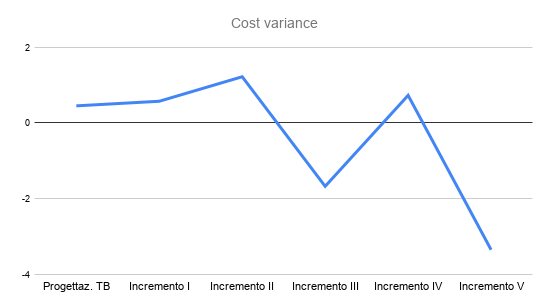
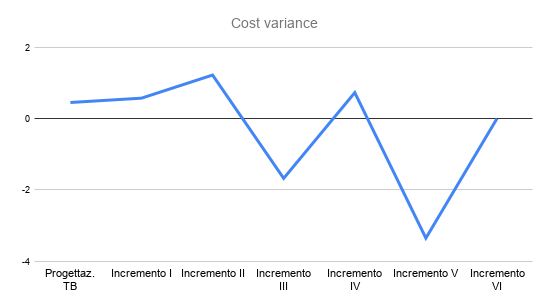
Update

diff --git a/esterni/piano_qualifica/res/sections/Sez5-Resoconto/Resoconto.tex b/esterni/piano_qualifica/res/sections/Sez5-Resoconto/Resoconto.tex
@@ -5,13 +5,19 @@
 	
 \subsection{Verifica processi}
 
-\subsubsection{Calcolo metriche gestione delle risorse}
+\subsubsection{Calcolo metriche gestione delle risorse - QP1}
 Per verificare che i costi stabiliti rientrino in quanto preventivato si trovano a seguire dei grafici contenenti i risultati ottenuti:
 
 	\paragraph{Budgeted cost of work scheduled}
 		\begin{figure}[H]
 			\centering
 			\includegraphics[width=0.8\linewidth]{./res/images/BCWS_1.png}
+			\caption{Grafico contenente il costo preventivato in euro per fase}
+			\label{fig:Grafico contenente il costo preventivato in euro per fase}
+		\end{figure}
+		\begin{figure}[H]
+			\centering
+			\includegraphics[width=0.8\linewidth]{./res/images/BCWS_2.png}
 			\caption{Grafico contenente il costo preventivato in euro per fase}
 			\label{fig:Grafico contenente il costo preventivato in euro per fase}
 		\end{figure}
@@ -23,11 +29,23 @@ Per verificare che i costi stabiliti rientrino in quanto preventivato si trovano
 			\caption{Grafico contenente il costo effettivo in euro per fase}
 			\label{fig:Grafico contenente il costo effettivo in euro per fase}
 		\end{figure}
+		\begin{figure}[H]
+			\centering
+			\includegraphics[width=0.8\linewidth]{./res/images/ACWP_2.png}
+			\caption{Grafico contenente il costo effettivo in euro per fase}
+			\label{fig:Grafico contenente il costo effettivo in euro per fase}
+		\end{figure}
 
 	\paragraph{Budgeted cost of work performed}
 		\begin{figure}[H]
 			\centering
 			\includegraphics[width=0.8\linewidth]{./res/images/BCWP_1.png}
+			\caption{Grafico contenente il valore del prodotto in euro per fase}
+			\label{fig:Grafico contenente il valore del prodotto in euro per fase}
+		\end{figure}
+		\begin{figure}[H]
+			\centering
+			\includegraphics[width=0.8\linewidth]{./res/images/BCWP_2.png}
 			\caption{Grafico contenente il valore del prodotto in euro per fase}
 			\label{fig:Grafico contenente il valore del prodotto in euro per fase}
 		\end{figure}
@@ -39,6 +57,13 @@ Per verificare che i costi stabiliti rientrino in quanto preventivato si trovano
 			\caption{Grafico contenente il valore dello schedule variance per fase}
 			\label{fig:Grafico contenente il valore dello schedule variance per fase}
 		\end{figure}
+		\begin{figure}[H]
+			\centering
+			\includegraphics[width=0.8\linewidth]{./res/images/SV_2.png}
+			\caption{Grafico contenente il valore dello schedule variance per fase}
+			\label{fig:Grafico contenente il valore dello schedule variance per fase}
+		\end{figure}
+
 
 	\paragraph{Cost Variance}
 		\begin{figure}[H]
@@ -47,8 +72,14 @@ Per verificare che i costi stabiliti rientrino in quanto preventivato si trovano
 			\caption{Grafico contenente il valore dello cost variance per fase}
 			\label{fig:Grafico contenente il valore dello cost variance per fase}
 		\end{figure}
+		\begin{figure}[H]
+			\centering
+			\includegraphics[width=0.8\linewidth]{./res/images/CV_2.png}
+			\caption{Grafico contenente il valore dello cost variance per fase}
+			\label{fig:Grafico contenente il valore dello cost variance per fase}
+		\end{figure}
 
-\subsubsection{Calcolo metriche gestione dei rischi}
+\subsubsection{Calcolo metriche gestione dei rischi - QP2}
 
 \paragraph{Unbudgeted Risks}
 Per monitorare i rischi non preventivati riscontrati durante l'avanzamento del progetto si sono raccolte le misurazioni nei seguenti grafici:
@@ -70,15 +101,114 @@ Per monitorare i rischi non preventivati riscontrati durante l'avanzamento del p
 	\begin{figure}[H]
 			\centering
 			\includegraphics[width=0.8\linewidth]{./res/images/RischiNonPrevent_3.png}
-			\caption{Grafico periodo/rischio per le fasi che vanno dalla progettazione della technology baseline all'incremento 5}
-			\label{fig:Grafico periodo/rischio per le fasi che vanno dalla progettazione della technology baseline all'incremento 5}
+			\caption{Grafico periodo/rischio per le fasi che vanno dalla progettazione della technology baseline all'incremento VI}
+			\label{fig:Grafico periodo/rischio per le fasi che vanno dalla progettazione della technology baseline all'incremento VI}
 	\end{figure}
-	
-%\subsection{Verifica prodotto}
+
+	\begin{figure}[H]
+			\centering
+			\includegraphics[width=0.8\linewidth]{./res/images/RischiNonPreven_4.png}
+			\caption{Grafico periodo/rischio per le fasi che vanno dall'incremento VII all'incremento X}
+			\label{fig:Grafico periodo/rischio per le fasi che vanno dall'incremento VII all'incremento X}
+	\end{figure}
+
+\subsubsection{Calcolo metriche sviluppo - QP3}
+\paragraph{Satisfied mandatory requirements}
+	\begin{figure}[H]
+			\centering%%%%%COMPILARE
+			\includegraphics[width=0.8\linewidth]{./res/images/RischiNonPreven_4.png}
+			\caption{Grafico periodo/rischio per le fasi che vanno dall'incremento VII all'incremento X}
+			\label{fig:Grafico periodo/rischio per le fasi che vanno dall'incremento VII all'incremento X}
+	\end{figure}
+\paragraph{Satisfied desirable requirements}
+	\begin{figure}[H]
+			\centering%%%%%COMPILARE
+			\includegraphics[width=0.8\linewidth]{./res/images/RischiNonPreven_4.png}
+			\caption{Grafico periodo/rischio per le fasi che vanno dall'incremento VII all'incremento X}
+			\label{fig:Grafico periodo/rischio per le fasi che vanno dall'incremento VII all'incremento X}
+	\end{figure}
+\paragraph{Satisfied optional requirements}
+	\begin{figure}[H]
+			\centering%%%%%COMPILARE
+			\includegraphics[width=0.8\linewidth]{./res/images/RischiNonPreven_4.png}
+			\caption{Grafico periodo/rischio per le fasi che vanno dall'incremento VII all'incremento X}
+			\label{fig:Grafico periodo/rischio per le fasi che vanno dall'incremento VII all'incremento X}
+	\end{figure}
+\paragraph{Numero di commit}
+\begin{figure}[H]
+			\centering%%%%%COMPILARE
+			\includegraphics[width=0.8\linewidth]{./res/images/RischiNonPreven_4.png}
+			\caption{Grafico periodo/rischio per le fasi che vanno dall'incremento VII all'incremento X}
+			\label{fig:Grafico periodo/rischio per le fasi che vanno dall'incremento VII all'incremento X}
+	\end{figure}
+
+\subsubsection{Calcolo metriche verifica - QP4}	
+\paragraph{Code coverage}
+\begin{figure}[H]
+			\centering%%%%%COMPILARE
+			\includegraphics[width=0.8\linewidth]{./res/images/RischiNonPreven_4.png}
+			\caption{Grafico periodo/rischio per le fasi che vanno dall'incremento VII all'incremento X}
+			\label{fig:Grafico periodo/rischio per le fasi che vanno dall'incremento VII all'incremento X}
+	\end{figure}
+\paragraph{Condition coverage}
+\begin{figure}[H]
+			\centering%%%%%COMPILARE
+			\includegraphics[width=0.8\linewidth]{./res/images/RischiNonPreven_4.png}
+			\caption{Grafico periodo/rischio per le fasi che vanno dall'incremento VII all'incremento X}
+			\label{fig:Grafico periodo/rischio per le fasi che vanno dall'incremento VII all'incremento X}
+	\end{figure}
+\paragraph{Line coverage}
+\begin{figure}[H]
+			\centering%%%%%COMPILARE
+			\includegraphics[width=0.8\linewidth]{./res/images/RischiNonPreven_4.png}
+			\caption{Grafico periodo/rischio per le fasi che vanno dall'incremento VII all'incremento X}
+			\label{fig:Grafico periodo/rischio per le fasi che vanno dall'incremento VII all'incremento X}
+	\end{figure}
+\paragraph{Passed test cases percentage}
+\begin{figure}[H]
+			\centering%%%%%COMPILARE
+			\includegraphics[width=0.8\linewidth]{./res/images/RischiNonPreven_4.png}
+			\caption{Grafico periodo/rischio per le fasi che vanno dall'incremento VII all'incremento X}
+			\label{fig:Grafico periodo/rischio per le fasi che vanno dall'incremento VII all'incremento X}
+	\end{figure}
+\paragraph{Failed test cases percentage}
+\begin{figure}[H]
+			\centering%%%%%COMPILARE
+			\includegraphics[width=0.8\linewidth]{./res/images/RischiNonPreven_4.png}
+			\caption{Grafico periodo/rischio per le fasi che vanno dall'incremento VII all'incremento X}
+			\label{fig:Grafico periodo/rischio per le fasi che vanno dall'incremento VII all'incremento X}
+	\end{figure}
+\paragraph{Bug-fixing percentage}
+\begin{figure}[H]
+			\centering%%%%%COMPILARE
+			\includegraphics[width=0.8\linewidth]{./res/images/RischiNonPreven_4.png}
+			\caption{Grafico periodo/rischio per le fasi che vanno dall'incremento VII all'incremento X}
+			\label{fig:Grafico periodo/rischio per le fasi che vanno dall'incremento VII all'incremento X}
+	\end{figure}
+\paragraph{Complessità media dei test di classe}
+\begin{figure}[H]
+			\centering%%%%%COMPILARE
+			\includegraphics[width=0.8\linewidth]{./res/images/RischiNonPreven_4.png}
+			\caption{Grafico periodo/rischio per le fasi che vanno dall'incremento VII all'incremento X}
+			\label{fig:Grafico periodo/rischio per le fasi che vanno dall'incremento VII all'incremento X}
+	\end{figure}
+
+
+\subsubsection{Calcolo metriche qualità - QP5}
+\paragraph{Percentuale delle metriche soddisfatte}
+\begin{figure}[H]
+			\centering%%%%%COMPILARE
+			\includegraphics[width=0.8\linewidth]{./res/images/RischiNonPreven_4.png}
+			\caption{Grafico periodo/rischio per le fasi che vanno dall'incremento VII all'incremento X}
+			\label{fig:Grafico periodo/rischio per le fasi che vanno dall'incremento VII all'incremento X}
+	\end{figure}
+
+\subsection{Verifica prodotto}
+
 
 \subsection{Verifica documentazione}
 
-\subsubsection{Calcolo metriche comprensione}
+\subsubsection{Calcolo metriche comprensione - QC1}
 
 \paragraph{Indice di Gulpease}
 Per verificare quanto sono leggibili i documenti redatti si utilizza \glock{l'indice di Gulpease}, di seguito i grafici contenenti i risultati ottenuti:
@@ -97,6 +227,13 @@ Per verificare quanto sono leggibili i documenti redatti si utilizza \glock{l'in
 	\label{fig:Grafico indice di gulpease periodo di progettazione della technology baseline.}
 \end{figure}
 
+\begin{figure}[H]
+	\centering
+	\includegraphics[width=0.8\linewidth]{./res/images/gulpease_3.png}
+	\caption{Grafico periodo/indice di gulpease nel periodo dall'incremento VI al X.}
+	\label{fig:Grafico indice di gulpease periodo dall'incremento VI al X.}
+\end{figure}
+
 \paragraph{Correttezza ortografica}
 È stato effettuato un controllo di ortografia e di seguito vengono illustrati i grafici contenenti i risultati ottenuti:
 
@@ -113,3 +250,120 @@ Per verificare quanto sono leggibili i documenti redatti si utilizza \glock{l'in
 	\caption{Grafico periodo/errori ortografici nel periodo di progettazione della technology baseline.}
 	\label{fig:Grafico errori ortografici durante il periodo di progettazione della technology baseline.}
 \end{figure}
+
+\begin{figure}[H]
+	\centering
+	\includegraphics[width=0.8\linewidth]{./res/images/ortografia_3.png}
+	\caption{Grafico periodo/errori ortografici nel periodo dall'incremento VI al X.}
+	\label{fig:Grafico errori ortografici durante il periodo dall'incremento VI al X.}
+\end{figure}
+
+\paragraph{Limite lunghezza video tutorial}
+\begin{figure}[H]
+			\centering%%%%%COMPILARE
+			\includegraphics[width=0.8\linewidth]{./res/images/RischiNonPreven_4.png}
+			\caption{Grafico periodo/rischio per le fasi che vanno dall'incremento VII all'incremento X}
+			\label{fig:Grafico periodo/rischio per le fasi che vanno dall'incremento VII all'incremento X}
+	\end{figure}
+
+\subsubsection{Calcolo metriche sicurezza - QC2}
+\paragraph{Numero di vulnerabilità rilevate}
+\begin{figure}[H]
+			\centering%%%%%COMPILARE
+			\includegraphics[width=0.8\linewidth]{./res/images/RischiNonPreven_4.png}
+			\caption{Grafico periodo/rischio per le fasi che vanno dall'incremento VII all'incremento X}
+			\label{fig:Grafico periodo/rischio per le fasi che vanno dall'incremento VII all'incremento X}
+	\end{figure}
+\paragraph{Tempo di risoluzione vulnerabilità}
+\begin{figure}[H]
+			\centering%%%%%COMPILARE
+			\includegraphics[width=0.8\linewidth]{./res/images/RischiNonPreven_4.png}
+			\caption{Grafico periodo/rischio per le fasi che vanno dall'incremento VII all'incremento X}
+			\label{fig:Grafico periodo/rischio per le fasi che vanno dall'incremento VII all'incremento X}
+	\end{figure}
+
+\subsubsection{Calcolo metriche affidabilità - QC3}
+\paragraph{Numero di bug rilevati}
+\begin{figure}[H]
+			\centering%%%%%COMPILARE
+			\includegraphics[width=0.8\linewidth]{./res/images/RischiNonPreven_4.png}
+			\caption{Grafico periodo/rischio per le fasi che vanno dall'incremento VII all'incremento X}
+			\label{fig:Grafico periodo/rischio per le fasi che vanno dall'incremento VII all'incremento X}
+	\end{figure}
+\paragraph{Tempo stimato risoluzione bug}
+\begin{figure}[H]
+			\centering%%%%%COMPILARE
+			\includegraphics[width=0.8\linewidth]{./res/images/RischiNonPreven_4.png}
+			\caption{Grafico periodo/rischio per le fasi che vanno dall'incremento VII all'incremento X}
+			\label{fig:Grafico periodo/rischio per le fasi che vanno dall'incremento VII all'incremento X}
+	\end{figure}
+
+\subsubsection{Calcolo metriche efficienza - QC4}
+\paragraph{Risposta media}
+\begin{figure}[H]
+			\centering%%%%%COMPILARE
+			\includegraphics[width=0.8\linewidth]{./res/images/RischiNonPreven_4.png}
+			\caption{Grafico periodo/rischio per le fasi che vanno dall'incremento VII all'incremento X}
+			\label{fig:Grafico periodo/rischio per le fasi che vanno dall'incremento VII all'incremento X}
+	\end{figure}
+
+\subsubsection{Calcolo metriche usabilità - QC5}
+\paragraph{Profondità dell’albero delle azioni}
+\begin{figure}[H]
+			\centering%%%%%COMPILARE
+			\includegraphics[width=0.8\linewidth]{./res/images/RischiNonPreven_4.png}
+			\caption{Grafico periodo/rischio per le fasi che vanno dall'incremento VII all'incremento X}
+			\label{fig:Grafico periodo/rischio per le fasi che vanno dall'incremento VII all'incremento X}
+	\end{figure}
+\paragraph{Profondità dell’albero delle pagine}
+\begin{figure}[H]
+			\centering%%%%%COMPILARE
+			\includegraphics[width=0.8\linewidth]{./res/images/RischiNonPreven_4.png}
+			\caption{Grafico periodo/rischio per le fasi che vanno dall'incremento VII all'incremento X}
+			\label{fig:Grafico periodo/rischio per le fasi che vanno dall'incremento VII all'incremento X}
+	\end{figure}
+
+\subsubsection{Calcolo metriche manutenibilità - QC6}
+\paragraph{Complessità ciclomatica media}
+\begin{figure}[H]
+			\centering%%%%%COMPILARE
+			\includegraphics[width=0.8\linewidth]{./res/images/RischiNonPreven_4.png}
+			\caption{Grafico periodo/rischio per le fasi che vanno dall'incremento VII all'incremento X}
+			\label{fig:Grafico periodo/rischio per le fasi che vanno dall'incremento VII all'incremento X}
+	\end{figure}
+\paragraph{Complessità della classe}
+\begin{figure}[H]
+			\centering%%%%%COMPILARE
+			\includegraphics[width=0.8\linewidth]{./res/images/RischiNonPreven_4.png}
+			\caption{Grafico periodo/rischio per le fasi che vanno dall'incremento VII all'incremento X}
+			\label{fig:Grafico periodo/rischio per le fasi che vanno dall'incremento VII all'incremento X}
+	\end{figure}
+\paragraph{Numero di code smell rilevati}
+\begin{figure}[H]
+			\centering%%%%%COMPILARE
+			\includegraphics[width=0.8\linewidth]{./res/images/RischiNonPreven_4.png}
+			\caption{Grafico periodo/rischio per le fasi che vanno dall'incremento VII all'incremento X}
+			\label{fig:Grafico periodo/rischio per le fasi che vanno dall'incremento VII all'incremento X}
+	\end{figure}
+\paragraph{Tempo di risoluzione code smell}
+\begin{figure}[H]
+			\centering%%%%%COMPILARE
+			\includegraphics[width=0.8\linewidth]{./res/images/RischiNonPreven_4.png}
+			\caption{Grafico periodo/rischio per le fasi che vanno dall'incremento VII all'incremento X}
+			\label{fig:Grafico periodo/rischio per le fasi che vanno dall'incremento VII all'incremento X}
+	\end{figure}
+\paragraph{Percentuale di duplicazione del codice}
+\begin{figure}[H]
+			\centering%%%%%COMPILARE
+			\includegraphics[width=0.8\linewidth]{./res/images/RischiNonPreven_4.png}
+			\caption{Grafico periodo/rischio per le fasi che vanno dall'incremento VII all'incremento X}
+			\label{fig:Grafico periodo/rischio per le fasi che vanno dall'incremento VII all'incremento X}
+	\end{figure}
+\paragraph{Numero di violazioni standard di codifica}
+\begin{figure}[H]
+			\centering%%%%%COMPILARE
+			\includegraphics[width=0.8\linewidth]{./res/images/RischiNonPreven_4.png}
+			\caption{Grafico periodo/rischio per le fasi che vanno dall'incremento VII all'incremento X}
+			\label{fig:Grafico periodo/rischio per le fasi che vanno dall'incremento VII all'incremento X}
+	\end{figure}
+
